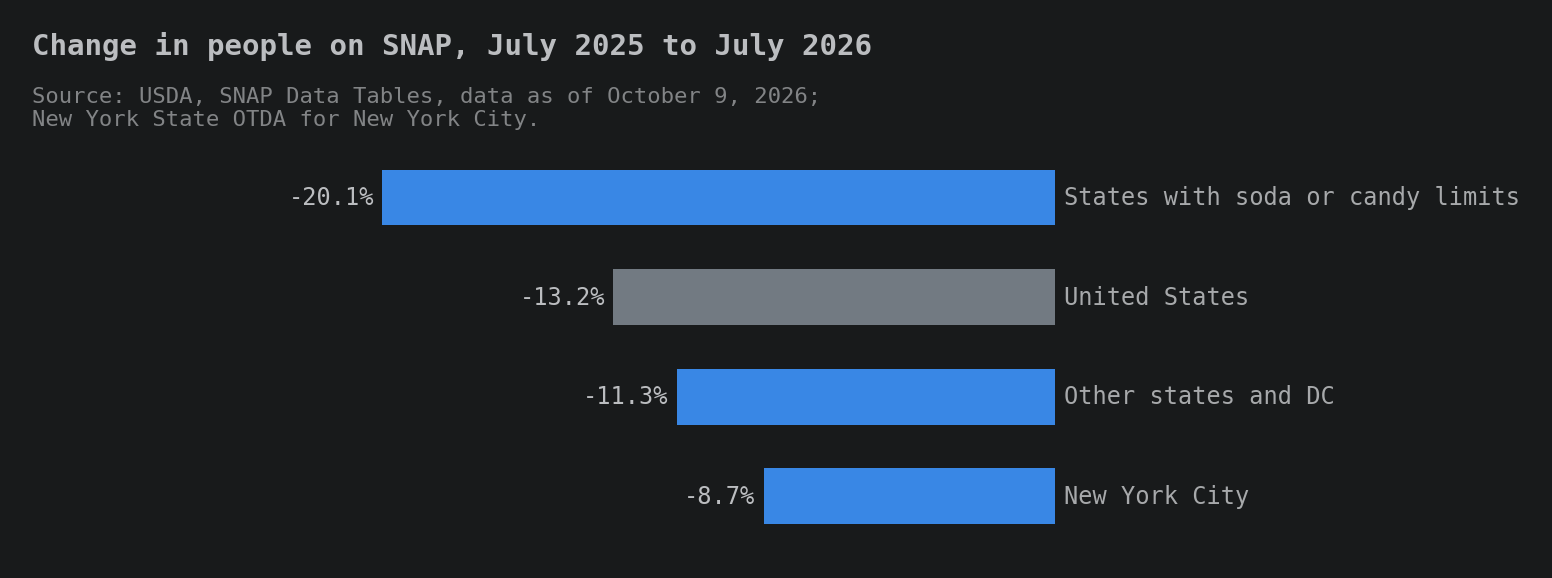
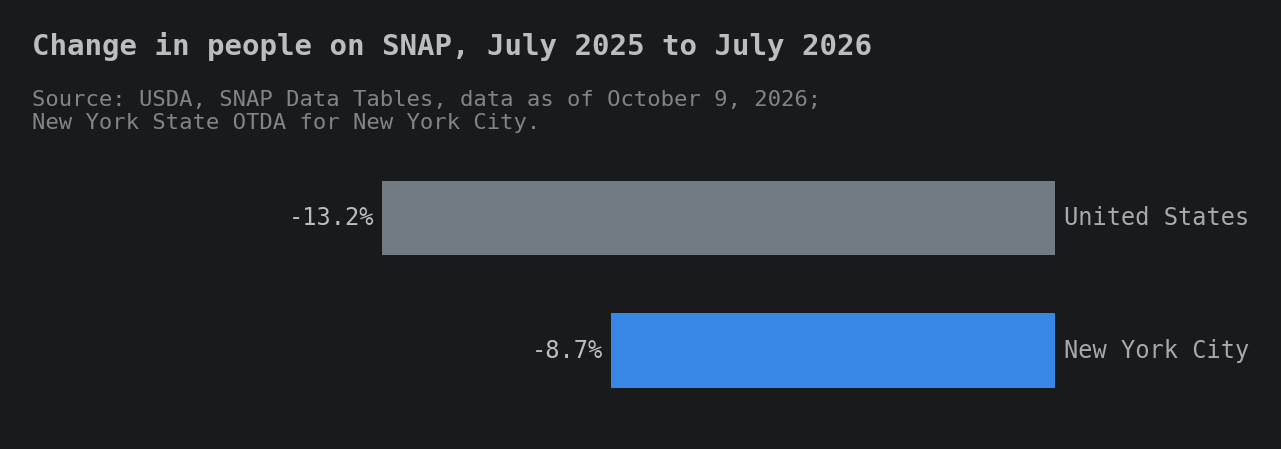
snap-stores-leaving-2026: enrollment chart US vs NYC, limit-state comparison cut

Changed region(s): [[0.0, 0.0624, 0.968, 0.5924], [0.3747, 0.6236, 0.968, 0.9042]]

diff --git a/src/analysis/post8_enrollment.py b/src/analysis/post8_enrollment.py
@@ -20,9 +20,8 @@ the latest month USDA has published. The year-over-year change (July 2025 to
 July 2026) avoids seasonal swings; the January 2025 start matches the earlier
 draft language.
 
-Groups: limit states are the ten states with SNAP soda or candy limits in
-2026 (post8_left2026.RESTRICTED); other states are the remaining 40 states
-and DC. Territories are left out.
+States: the 50 states and DC are read into `states_jul2025_jul2026` for
+reference; territories are left out.
 
 Writes reports/data/post8_enrollment.json and post8-enrollment.png.
 
@@ -36,7 +35,6 @@ import openpyxl
 import xlrd
 
 from analysis import figures
-from analysis.post8_left2026 import RESTRICTED
 from config import ROOT
 
 RAW = ROOT / "data" / "raw" / "snap_participation"
@@ -137,10 +135,6 @@ def main():
     us, states = load_usda()
     assert len(states) == 51, sorted(states)
     nyc, nys = load_ny()
-    sum_of = lambda codes: {k: sum(states[c][k] for c in codes)
-                            for k in us if all(k in states[c] for c in codes)}
-    limit = sum_of(sorted(RESTRICTED))
-    other = sum_of(sorted(set(states) - RESTRICTED))
     rest_ny = {k: nys[k] - nyc[k] for k in nyc}
 
     months = sorted(k for k in us if (2019, 1) <= k <= END)
@@ -151,8 +145,6 @@ def main():
         "us_monthly": {f"{y}-{m:02d}": us[(y, m)] for y, m in months},
         "us": changes(us),
         "us_peak_2020_2026": max(((us[k], f"{k[0]}-{k[1]:02d}") for k in chart_months)),
-        "limit_states": changes(limit),
-        "other_states": changes(other),
         "ny_state_usda": changes(states["NY"]),
         "ny_state_otda": changes(nys),
         "nyc_otda": changes(nyc),
@@ -180,9 +172,7 @@ def main():
     yoy = lambda k: out[k]["jul2025"]["pct"]
     figures.hbar_png(
         IMG / "post8-enrollment-change.png",
-        [{"label": "States with soda or candy limits", "value": yoy("limit_states"), "slot": 1},
-         {"label": "United States", "value": yoy("us"), "slot": 0},
-         {"label": "Other states and DC", "value": yoy("other_states"), "slot": 1},
+        [{"label": "United States", "value": yoy("us"), "slot": 0},
          {"label": "New York City", "value": yoy("nyc_otda"), "slot": 1}],
         suffix="%", direction="left",
         title="Change in people on SNAP, July 2025 to July 2026",

diff --git a/src/tieout_post8.py b/src/tieout_post8.py
@@ -415,8 +415,6 @@ def main():
     # Enrollment (USDA SNAP Data Tables, NY OTDA dq6j-8u8z), read with pandas.
     ej = json.loads((ROOT / "reports/data/post8_enrollment.json").read_text())
     praw = ROOT / "data/raw/snap_participation"
-    limit_st = {"Indiana", "Idaho", "Oklahoma", "Louisiana", "Texas", "Florida", "Utah",
-                "Iowa", "Nebraska", "West Virginia"}
     terr = {"Guam", "Virgin Islands", "Puerto Rico", "American Samoa",
             "Commonwealth of Northern Mariana Islands"}
     mon = {m: i + 1 for i, m in enumerate("Jan Feb Mar Apr May Jun Jul Aug Sep Oct Nov Dec".split())}
@@ -436,10 +434,10 @@ def main():
                    and c not in {"NERO", "MARO", "SERO", "MWRO", "SWRO", "MPRO", "WRO"}
                    and c in set(P["name"]) and P[P["name"] == c]["p"].max() > 10000]
     tie("Enrollment: states plus DC found in USDA files", 51, len(states_cols))
-    grp = {"us": piv["US Summary"],
-           "limit_states": piv[[c for c in states_cols if c in limit_st]].sum(axis=1),
-           "other_states": piv[[c for c in states_cols if c not in limit_st]].sum(axis=1),
-           "ny_state_usda": piv["New York"]}
+    grp = {"us": piv["US Summary"], "ny_state_usda": piv["New York"]}
+    az = piv["Arizona"]
+    tie("Enrollment: Arizona Jul 2025 to Jul 2026 % change (checked against CBPP, nearly 51%)",
+        ej["states_jul2025_jul2026"]["AZ"], r1(100 * (az.loc[(2026, 7)] - az.loc[(2025, 7)]) / az.loc[(2025, 7)]))
     ny = pd.read_csv(praw / "ny-snap-caseloads-dq6j-8u8z.csv")
     ny["m"] = pd.to_datetime(ny["month"], format="%B").dt.month
     nyt = ny.groupby(["year", "m"])["total_snap_persons"].sum()

diff --git a/posts/snap-stores-leaving-2026/POST.md b/posts/snap-stores-leaving-2026/POST.md
@@ -112,7 +112,7 @@ The 2026 ratio rose on both sides. Exits went up, and new stores went down, from
 The data shows which stores left and where. It cannot show why. Several things changed for SNAP stores at about the same time, and any of them could be part of it:
 
 - **State limits on buying soda and candy with SNAP.** Ten states had these limits in effect at some point in 2026. Convenience stores left SNAP at a higher rate in those states than in the rest of the country, as the chart below shows. A peer-reviewed study of the same USDA list found about 1.4% fewer convenience stores in SNAP in states with the limits than would have been expected. That is a real difference, but smaller than the rise we see, and the rise happened in states without limits too.
-- **Fewer people on SNAP.** The July 2025 budget law changed who qualifies for SNAP. USDA's numbers show 36.1 million people on SNAP in July 2026, down 13.2% from July 2025. Enrollment fell 20.1% in the states with soda or candy limits and 11.3% in the other states. In New York City, where stores left at the highest rate, enrollment fell 8.7%, less than the national drop. Fewer SNAP shoppers would mean less SNAP business for stores, and USDA's own analysis says stores with the lowest SNAP sales may be the most likely to drop out.
+- **Fewer people on SNAP.** The July 2025 budget law changed who qualifies for SNAP. USDA's numbers show 36.1 million people on SNAP in July 2026, down 13.2% from July 2025. In New York City, where stores left at the highest rate, enrollment fell 8.7%, less than the national drop. Fewer SNAP shoppers would mean less SNAP business for stores, and USDA's own analysis says stores with the lowest SNAP sales may be the most likely to drop out.
 - **Stores leaving ahead of the stocking rule.** The rule was published on May 8, and USDA's guidance came in September. Some stores may have decided not to restock and left early. The data cannot test this.
 - **USDA enforcement.** USDA could have removed more stores for rule violations. We did not test this.
 
@@ -124,7 +124,7 @@ The chart below shows the number of people on SNAP each month since January 2020
 ![People on SNAP each month, January 2020 to July 2026](images/10-enrollment.png)
 *Source: USDA, SNAP Data Tables, data as of October 9, 2026. Pandemic school-meal benefits (P-EBT) are not counted.*
 
-The next chart shows how much enrollment changed from July 2025 to July 2026.
+The next chart compares the change in enrollment from July 2025 to July 2026 in the United States and New York City.
 
 ![Change in people on SNAP, July 2025 to July 2026](images/11-enrollment-change.png)
 *Source: USDA, SNAP Data Tables, data as of October 9, 2026; New York State Office of Temporary and Disability Assistance for New York City.*

diff --git a/TIEOUT_POST8.md b/TIEOUT_POST8.md
@@ -178,24 +178,13 @@ Recomputed by `src/tieout_post8.py` from `data/raw/hist.csv` and `data/raw/live/
 | NYC map: stores still in SNAP (five boroughs, Nov 5 universe) | 7,510 | 7,510 | match |
 | NYC map: convenience and small groceries that left | 1,368 | 1,368 | match |
 | Enrollment: states plus DC found in USDA files | 51 | 51 | match |
+| Enrollment: Arizona Jul 2025 to Jul 2026 % change (checked against CBPP, nearly 51%) | -50.8 | -50.8 | match |
 | Enrollment us jan2025: persons at start | 42,412,762 | 42,412,762 | match |
 | Enrollment us jan2025 to Jul 2026: % change | -14.9 | -14.9 | match |
 | Enrollment us jul2025: persons at start | 41,599,407 | 41,599,407 | match |
 | Enrollment us jul2025 to Jul 2026: % change | -13.2 | -13.2 | match |
 | Enrollment us dec2025: persons at start | 39,207,898 | 39,207,898 | match |
 | Enrollment us dec2025 to Jul 2026: % change | -8.0 | -8.0 | match |
-| Enrollment limit_states jan2025: persons at start | 9,643,795 | 9,643,795 | match |
-| Enrollment limit_states jan2025 to Jul 2026: % change | -22.5 | -22.5 | match |
-| Enrollment limit_states jul2025: persons at start | 9,352,970 | 9,352,970 | match |
-| Enrollment limit_states jul2025 to Jul 2026: % change | -20.1 | -20.1 | match |
-| Enrollment limit_states dec2025: persons at start | 8,690,398 | 8,690,398 | match |
-| Enrollment limit_states dec2025 to Jul 2026: % change | -14.0 | -14.0 | match |
-| Enrollment other_states jan2025: persons at start | 32,714,366 | 32,714,366 | match |
-| Enrollment other_states jan2025 to Jul 2026: % change | -12.7 | -12.7 | match |
-| Enrollment other_states jul2025: persons at start | 32,185,665 | 32,185,665 | match |
-| Enrollment other_states jul2025 to Jul 2026: % change | -11.3 | -11.3 | match |
-| Enrollment other_states dec2025: persons at start | 30,456,215 | 30,456,215 | match |
-| Enrollment other_states dec2025 to Jul 2026: % change | -6.2 | -6.2 | match |
 | Enrollment ny_state_usda jan2025: persons at start | 2,974,909 | 2,974,909 | match |
 | Enrollment ny_state_usda jan2025 to Jul 2026: % change | -10.3 | -10.3 | match |
 | Enrollment ny_state_usda jul2025: persons at start | 2,940,513 | 2,940,513 | match |

diff --git a/DATASETS.md b/DATASETS.md
@@ -291,7 +291,9 @@ replacement, which makes "not replaced" counts lower, not higher.
 - **Known issue:** a partial federal shutdown moved February 2019 benefits into January 2019, so USDA's February 2019 count (7.6 million people) is not a real drop. The chart starts in January 2020.
 - **Used in post 8** (`src/analysis/post8_enrollment.py`, `reports/data/post8_enrollment.json`, `post8-enrollment.png`):
   - People on SNAP nationally each month, January 2020 to July 2026.
-  - Percent change in people on SNAP from January 2025, July 2025 and December 2025 to July 2026, for the US Summary, the ten states with soda or candy limits in 2026 (the same list as the restriction-state split), the other 40 states plus DC (territories left out), and New York State.
+  - Percent change in people on SNAP from January 2025, July 2025 and December 2025 to July 2026, for the US Summary and New York State. The post uses July 2025 to July 2026 for the US (-13.2%) and New York City (-8.7%, from the OTDA file below), in `post8-enrollment-change.png`.
+  - The change for each state and DC from July 2025 to July 2026 is kept in the JSON for reference. Arizona's -50.8% is real, not a file error: the Center on Budget and Policy Priorities reports the same figure ("nearly 51 percent lower"), and Arizona's Department of Economic Security has tied it to verification and processing problems in putting the 2025 law in place.
+  - Outside check: CBPP's SNAP Tracker reports a national drop of 5.5 million people (13 percent) from July 2025 to July 2026, with every state but Alaska down. Our figures match (5,511,740 people; Alaska +3.5%).
   - These are patterns next to the store exits. They do not show that falling enrollment caused any store to leave SNAP.
 
 ## SNAP Caseloads and Expenditures: Beginning 2002 (New York State OTDA)

diff --git a/STATUS.md b/STATUS.md
@@ -52,3 +52,4 @@ None. No later step had been confirmed under this file.
 - 2026-11-10 Step 2a confirmed by Eric. Step 2b started: Eric edits POST.md, then Claude looks it over.
 - 2026-11-10 Eric asked for a chart of the enrollment changes in the why section: `post8-enrollment-change.png` (July 2025 to July 2026: limit states -20.1%, US -13.2%, other states and DC -11.3%, NYC -8.7%), copied to `images/11-enrollment-change.png`. Values are the tied-out JSON figures. Placement in POST.md proposed to Eric, not applied.
 - 2026-11-10 Eric accepted edit 4: enrollment change chart placed after the monthly enrollment chart.
+- 2026-11-10 At Eric's request, cut the limit-state vs other-state enrollment sentence (a likely confounded comparison) and made the enrollment change chart US (-13.2%) vs NYC (-8.7%); chart intro sentence updated to match. Limit and other-state groups removed from the script, tie-out and DATASETS.md. Checked Arizona's -50.8%: real, matches CBPP's SNAP Tracker; Arizona DES points to verification and processing problems. CBPP's national 5.5 million (13%) also matches ours. Own tie-out 208 of 208.

diff --git a/reports/research/stocking-rule-2026-11.md b/reports/research/stocking-rule-2026-11.md
@@ -167,8 +167,14 @@ September 25, 2025.)
 - **Fewer people on SNAP.** Tufts Now (Oct. 30) says enrollment "is falling
   fast" after the July 2025 budget law changed eligibility. Checked against
   USDA's SNAP Data Tables (data as of Oct. 9, 2026): 36.1 million people in
-  July 2026, down 13.2% from July 2025 and 14.9% from January 2025. Limit
-  states fell 20.1% from July 2025 to July 2026; other states and DC 11.3%.
+  July 2026, down 13.2% from July 2025 and 14.9% from January 2025 (CBPP's
+  SNAP Tracker reports the same 13%). Limit states fell 20.1% from July 2025
+  to July 2026 and other states and DC 11.3%, but limit states are spread
+  through the state ranking, and states without limits had some of the
+  largest drops; cut from the post as a likely confounded comparison.
+  Arizona fell 50.8%, the most of any state; Arizona DES points to
+  verification and processing problems (azfamily, July 23, 2026; KJZZ,
+  Aug. 24, 2026; CBPP SNAP Tracker).
   New York City (NY OTDA) fell 8.7%, less than the nation, though its store
   exit rate was the highest. See `reports/data/post8_enrollment.json`.
 
